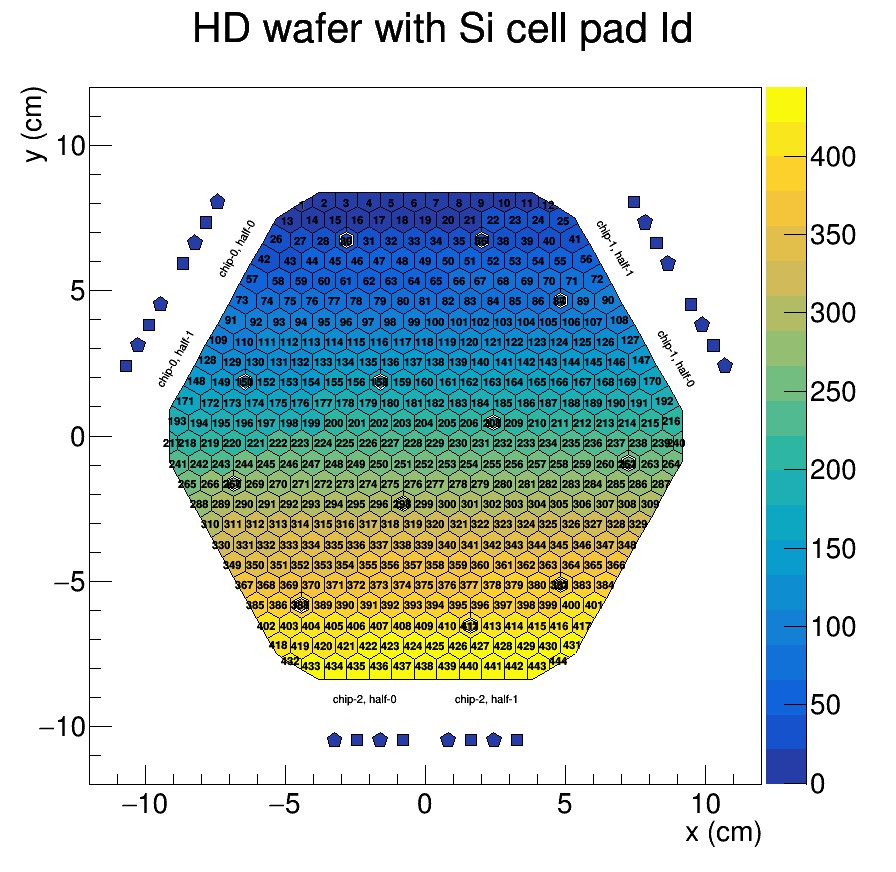
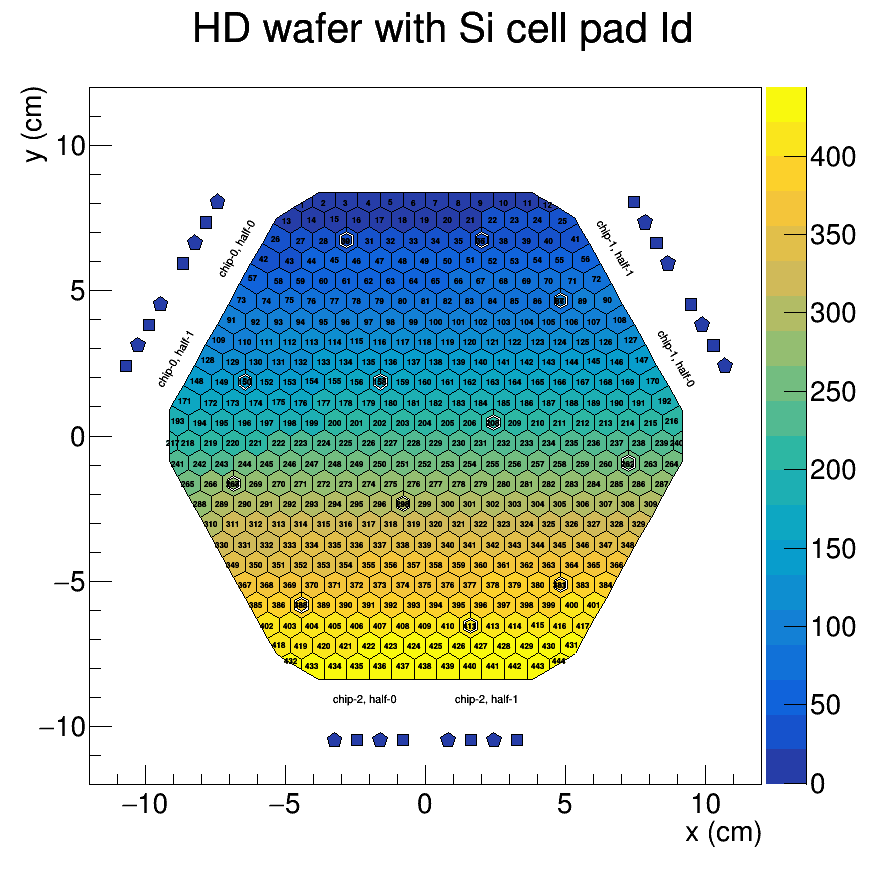
Modify text size on HD wafer maps

Changed region(s): [[0.1875, 0.2167, 0.75, 0.7741]]

diff --git a/th2poly.C b/th2poly.C
@@ -5,7 +5,7 @@
 
 void beautify_plot(bool drawLine = true, bool drawText = true, TString NameTag = "LD_wafer");
 
-void th2poly(TString inputfile, TString outputfile, double range, bool drawLine=false, TString NameTag="LD_wafer"){
+void th2poly(TString inputfile, TString outputfile, double range, bool drawLine=false, TString NameTag="LD_wafer", double MarkerSize = 0.7){
     TCanvas *c1 = new TCanvas("c1", "", 900, 900);
     c1->SetRightMargin(0.15);
     gStyle->SetPaintTextFormat(".0f");
@@ -153,22 +153,22 @@ void th2poly(TString inputfile, TString outputfile, double range, bool drawLine=
 
     // plotting
     if(scheme==0) {
-        p->SetMarkerSize(0.7);
+        p->SetMarkerSize(MarkerSize);
         p->Draw("colz;text");
         beautify_plot(drawLine, true, NameTag);
         c1->SaveAs("waferMaps/info_"+NameTag+"_globalChannelId_readoutSequence.png");
 
-        p_pin->SetMarkerSize(0.7);
+        p_pin->SetMarkerSize(MarkerSize);
         p_pin->Draw("colz;text");
         beautify_plot(drawLine, true, NameTag);
         c1->SaveAs("waferMaps/info_"+NameTag+"_HGCROC_pin_chan.png");
 
-        p_sicell->SetMarkerSize(0.7);
+        p_sicell->SetMarkerSize(MarkerSize);
         p_sicell->Draw("colz;text");
         beautify_plot(drawLine, true, NameTag);
         c1->SaveAs("waferMaps/info_"+NameTag+"_SiCell_padId.png");
     } else {
-        p->SetMarkerSize(0.7);
+        p->SetMarkerSize(MarkerSize);
         p->Draw("colz;text");
         beautify_plot(drawLine, true, NameTag);
         c1->SaveAs("test_injection_"+NameTag+".png");

diff --git a/exe.py b/exe.py
@@ -40,18 +40,21 @@ def get_macro_arguments():
     # Reminder: outputName is not used for the moment
     if args.waferType == "partial":
         scope = 14
+        markerSize = 0.7
         tag = "LD3_partial_wafer"
         outputName = "waferMaps/DQM_LD_partial_wafer_map.png"
     elif args.waferType == "full":
         scope = 14
+        markerSize = 0.7
         tag = "LD_wafer"
         outputName = "waferMaps/DQM_LD_wafer_map.png"
     elif args.waferType == "HD":
         scope = 12
+        markerSize = 0.5
         tag = "HD_wafer"
         outputName = "waferMaps/DQM_HD_wafer_map.png"
 
-    return scope, tag, outputName
+    return scope, tag, outputName, markerSize
 
 def main():
     polygon_manager = tp.PolygonManager(waferType)
@@ -94,6 +97,6 @@ if __name__ == "__main__":
     elif args.drawLine:
         exe("./toolbox/coordinate_loader.py") # execute python script for coordinate queries
 
-    scope, tag, outputName = get_macro_arguments()
-    exe("root -l -b -q th2poly.C'(\"./data/hexagons.root\", \"%s\", %d, %d, \"%s\")'" % (outputName, scope, args.drawLine, tag)) # execute root macro for TH2Poly
+    scope, tag, outputName, markerSize = get_macro_arguments()
+    exe("root -l -b -q th2poly.C'(\"./data/hexagons.root\", \"%s\", %d, %d, \"%s\", %f)'" % (outputName, scope, args.drawLine, tag, markerSize)) # execute root macro for TH2Poly
 
